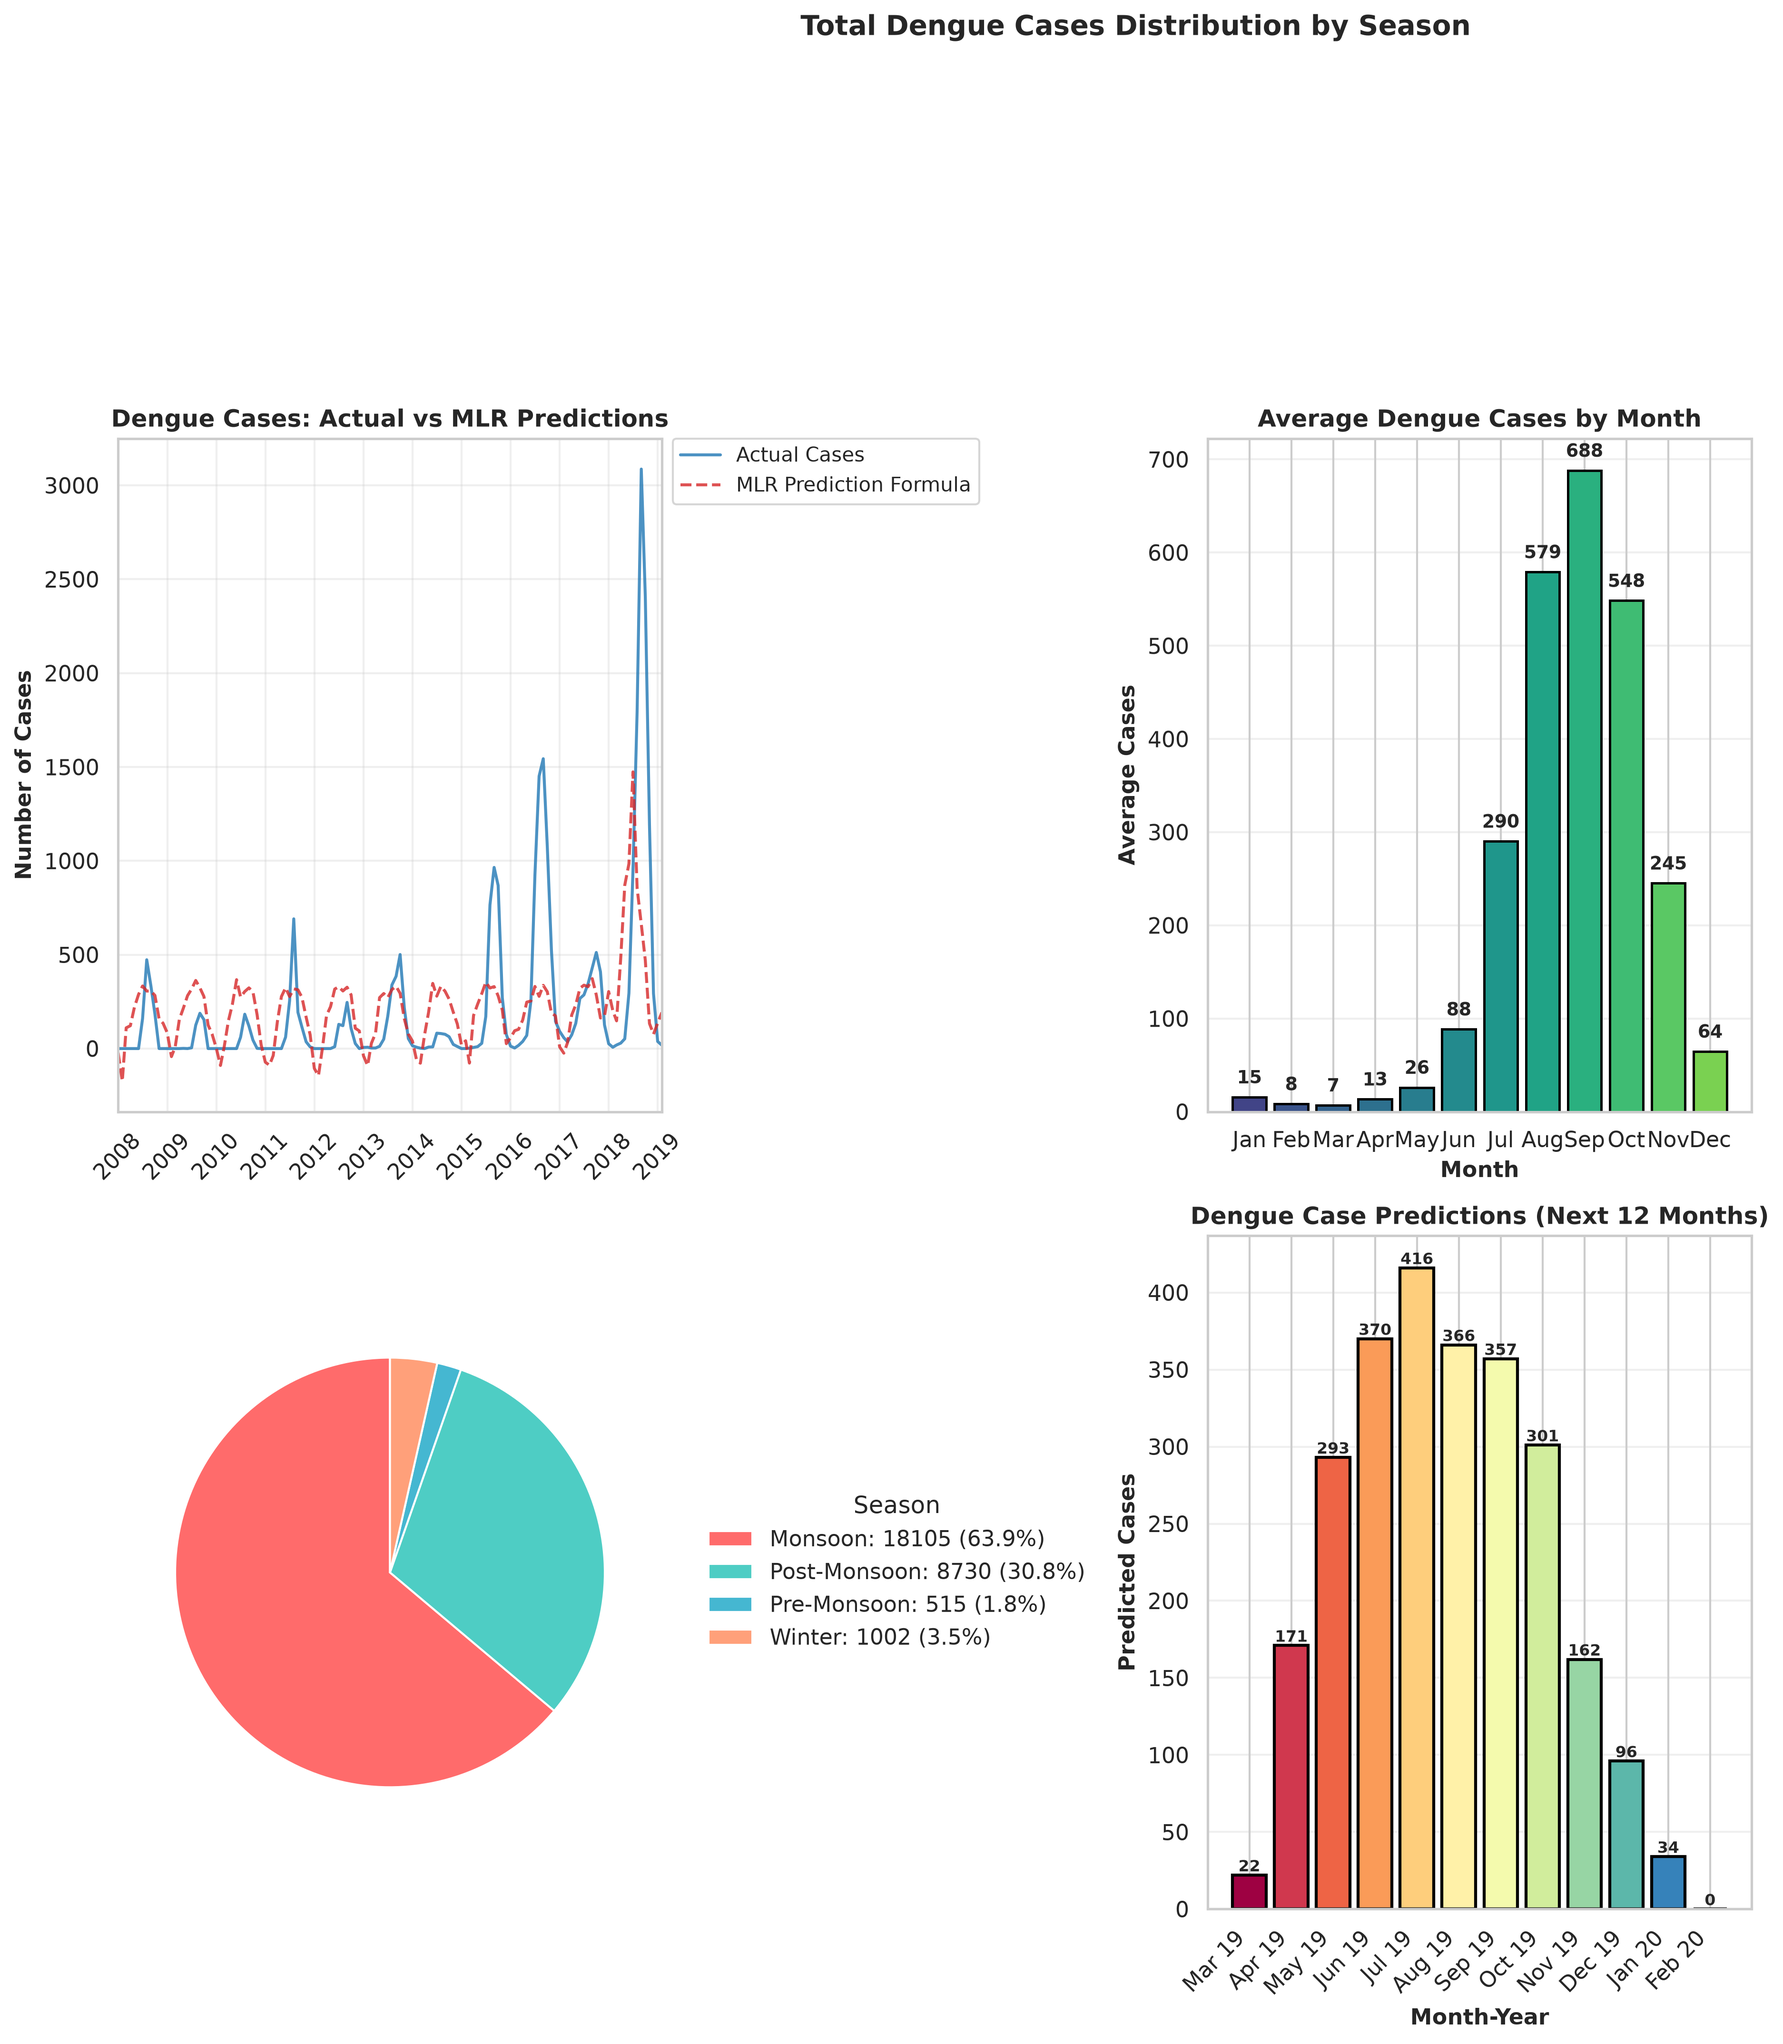
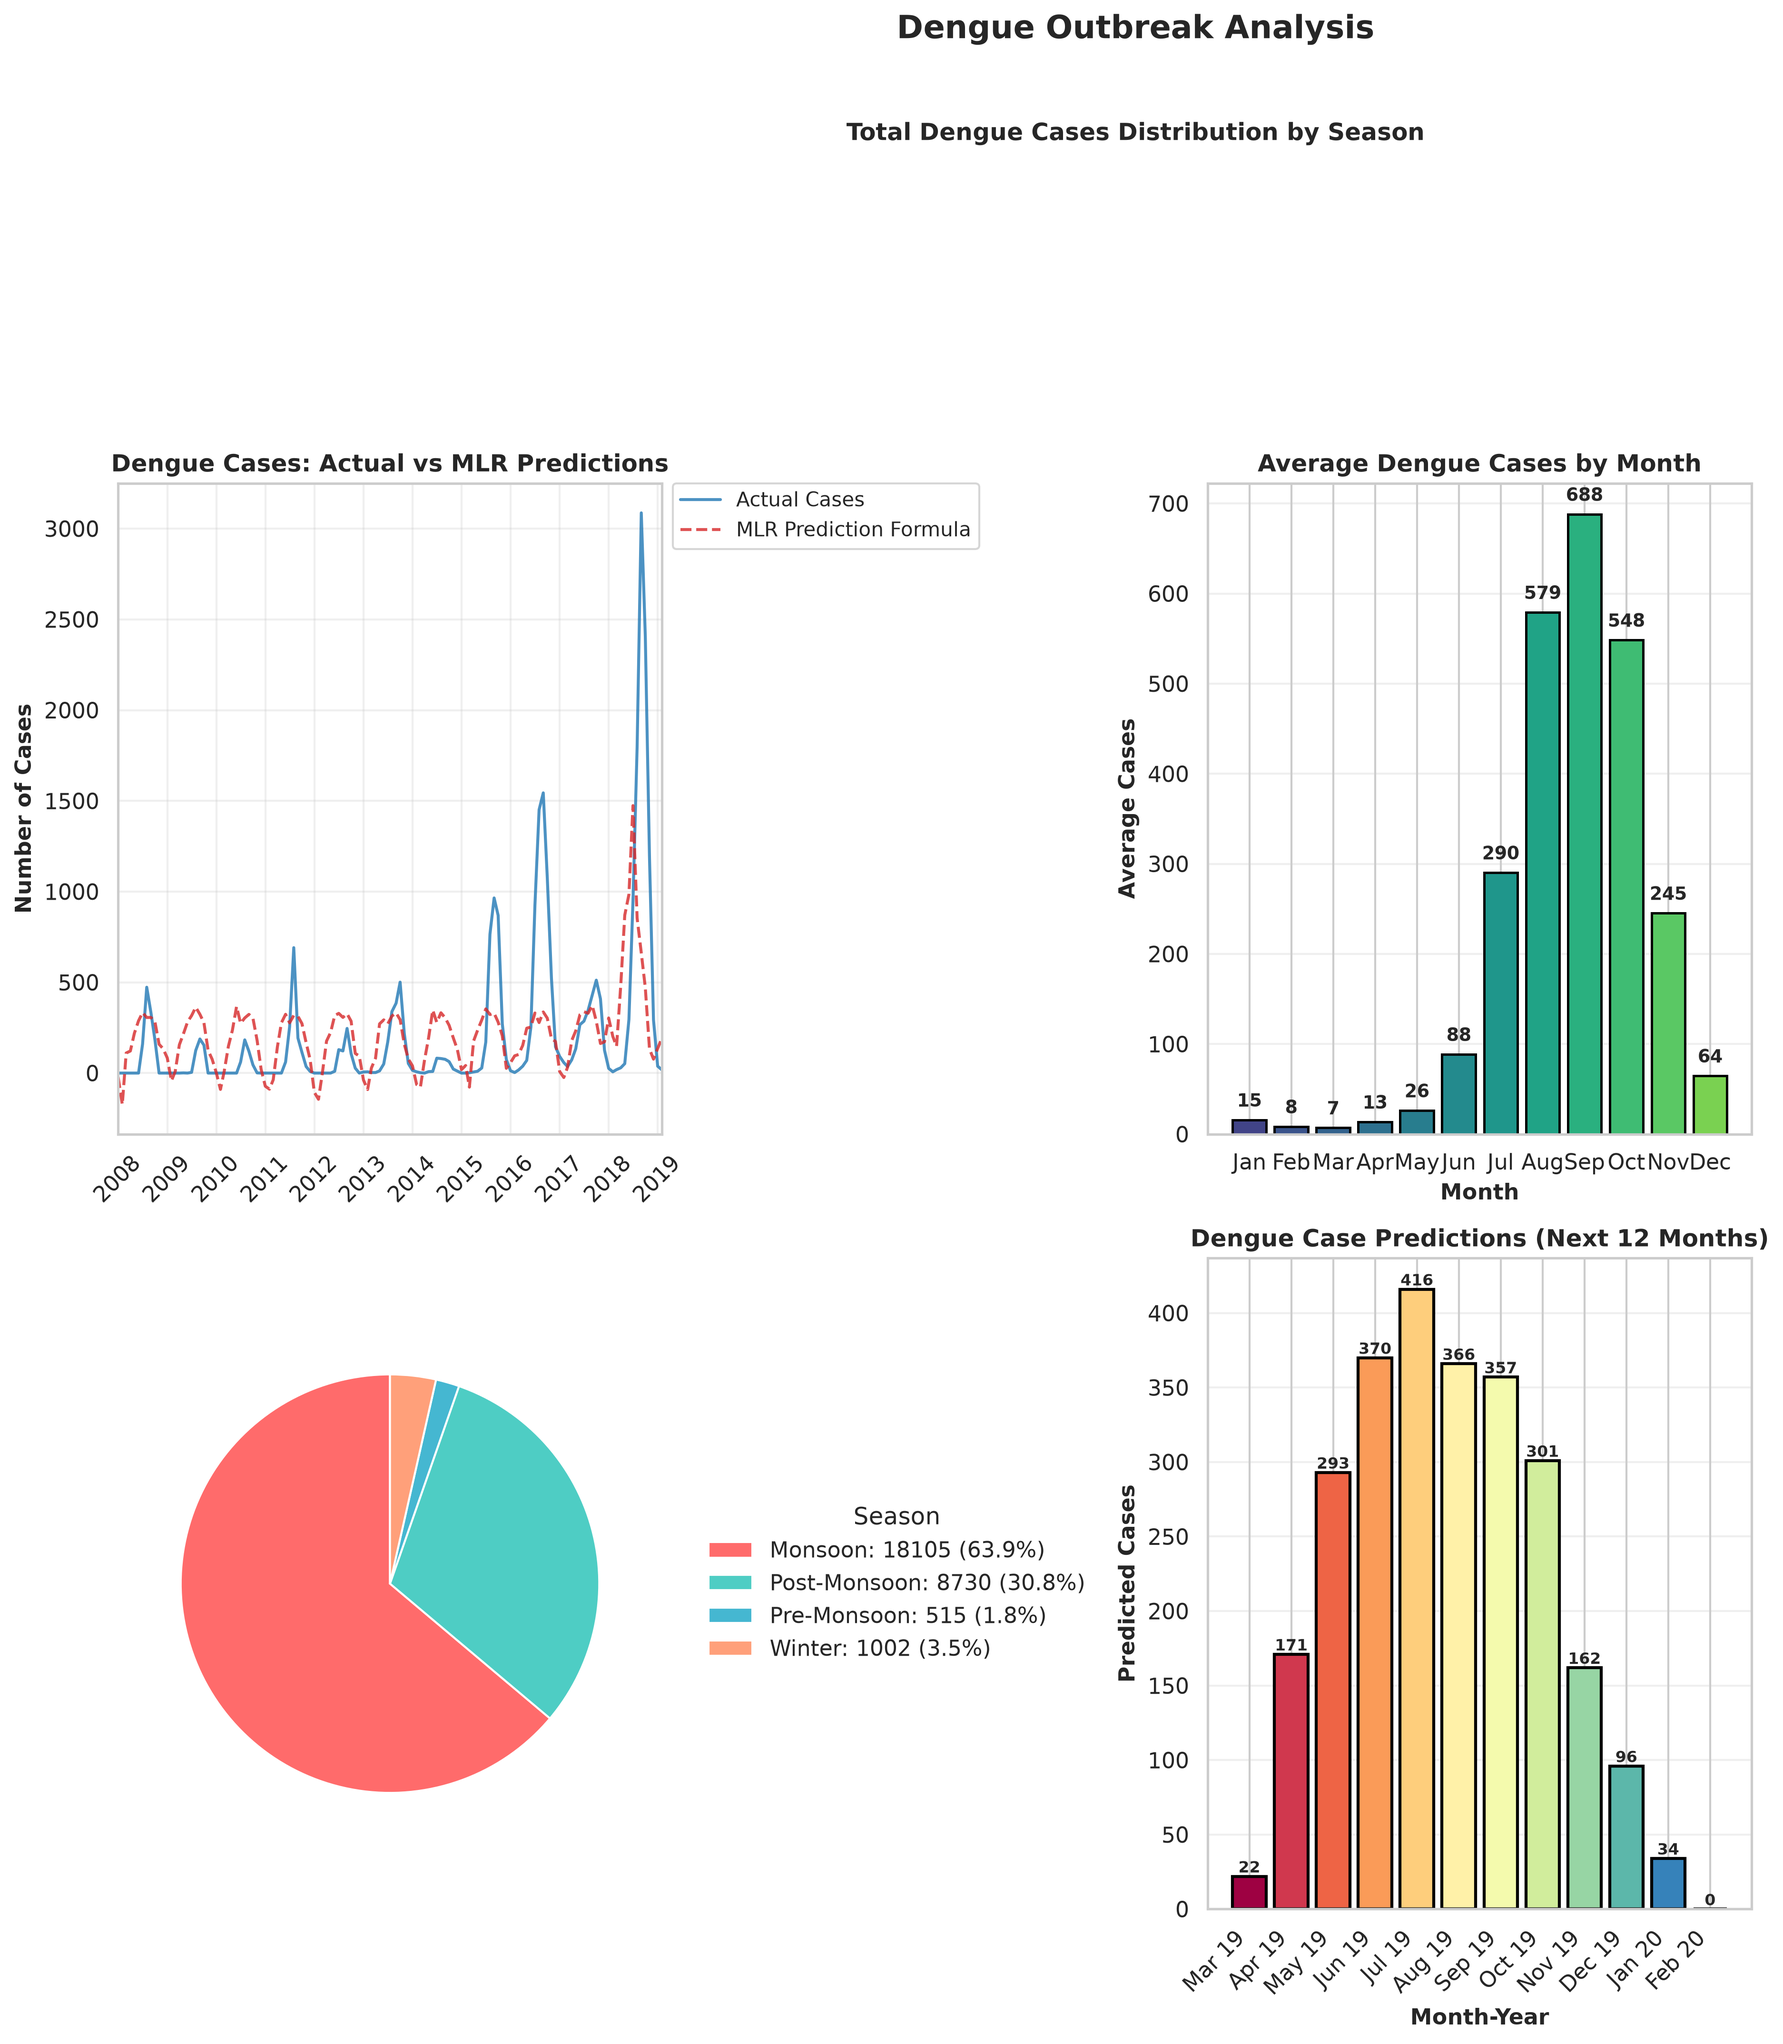
Add main suptitle and centered subtitle for pie; adjust margins

diff --git a/DengueOutbreakPrediction/multi-linear regression/model.py b/DengueOutbreakPrediction/multi-linear regression/model.py
@@ -304,10 +304,12 @@ for bar in bars_future:
                     f'{int(height)}', ha='center', va='bottom', fontsize=8, fontweight='bold')
 
 # Add a figure-level title so it sits above all subplots without overlapping
-fig.suptitle('Total Dengue Cases Distribution by Season', fontsize=14, fontweight='bold', y=1.02)
-# Ensure subplots have room under the suptitle
-fig.subplots_adjust(top=0.88)
-plt.tight_layout(rect=[0, 0, 0.78, 0.86])
+fig.suptitle('Dengue Outbreak Analysis', fontsize=16, fontweight='bold', y=1.02)
+# Add subtitle (pie title) centered under the main title
+fig.text(0.5, 0.96, 'Total Dengue Cases Distribution by Season', ha='center', va='center', fontsize=12, fontweight='bold')
+# Ensure subplots have room under the suptitle/subtitle
+fig.subplots_adjust(top=0.86)
+plt.tight_layout(rect=[0, 0, 0.78, 0.84])
 plt.savefig('dengue_mlr_analysis.png', dpi=300, bbox_inches='tight')
 print("✓ Main analysis plot saved: dengue_mlr_analysis.png")
 plt.close()
